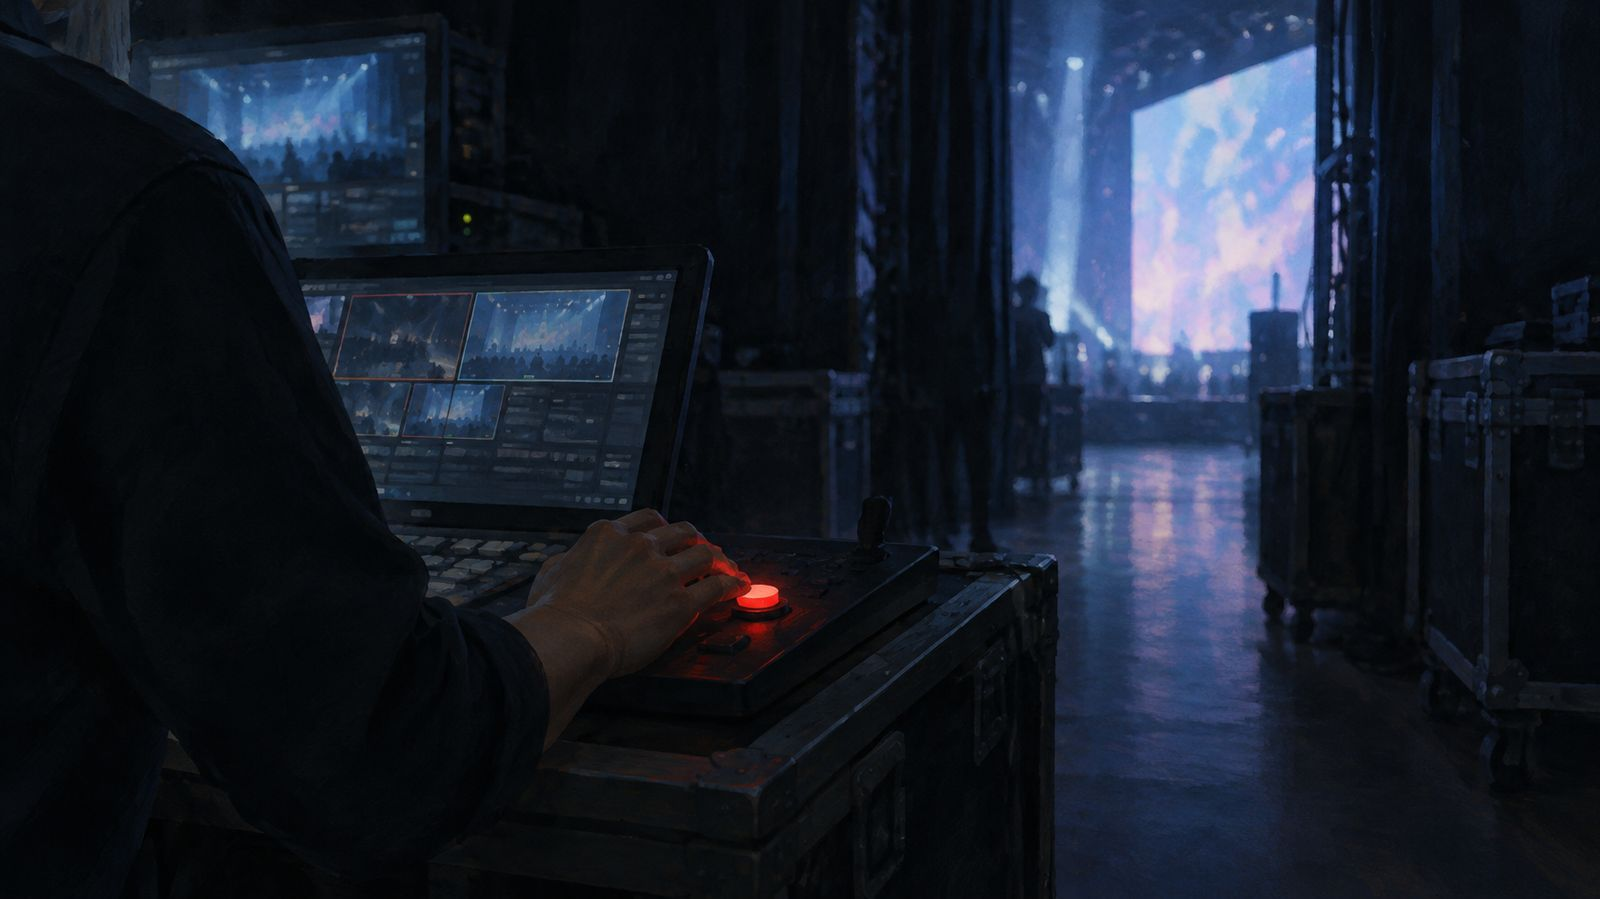
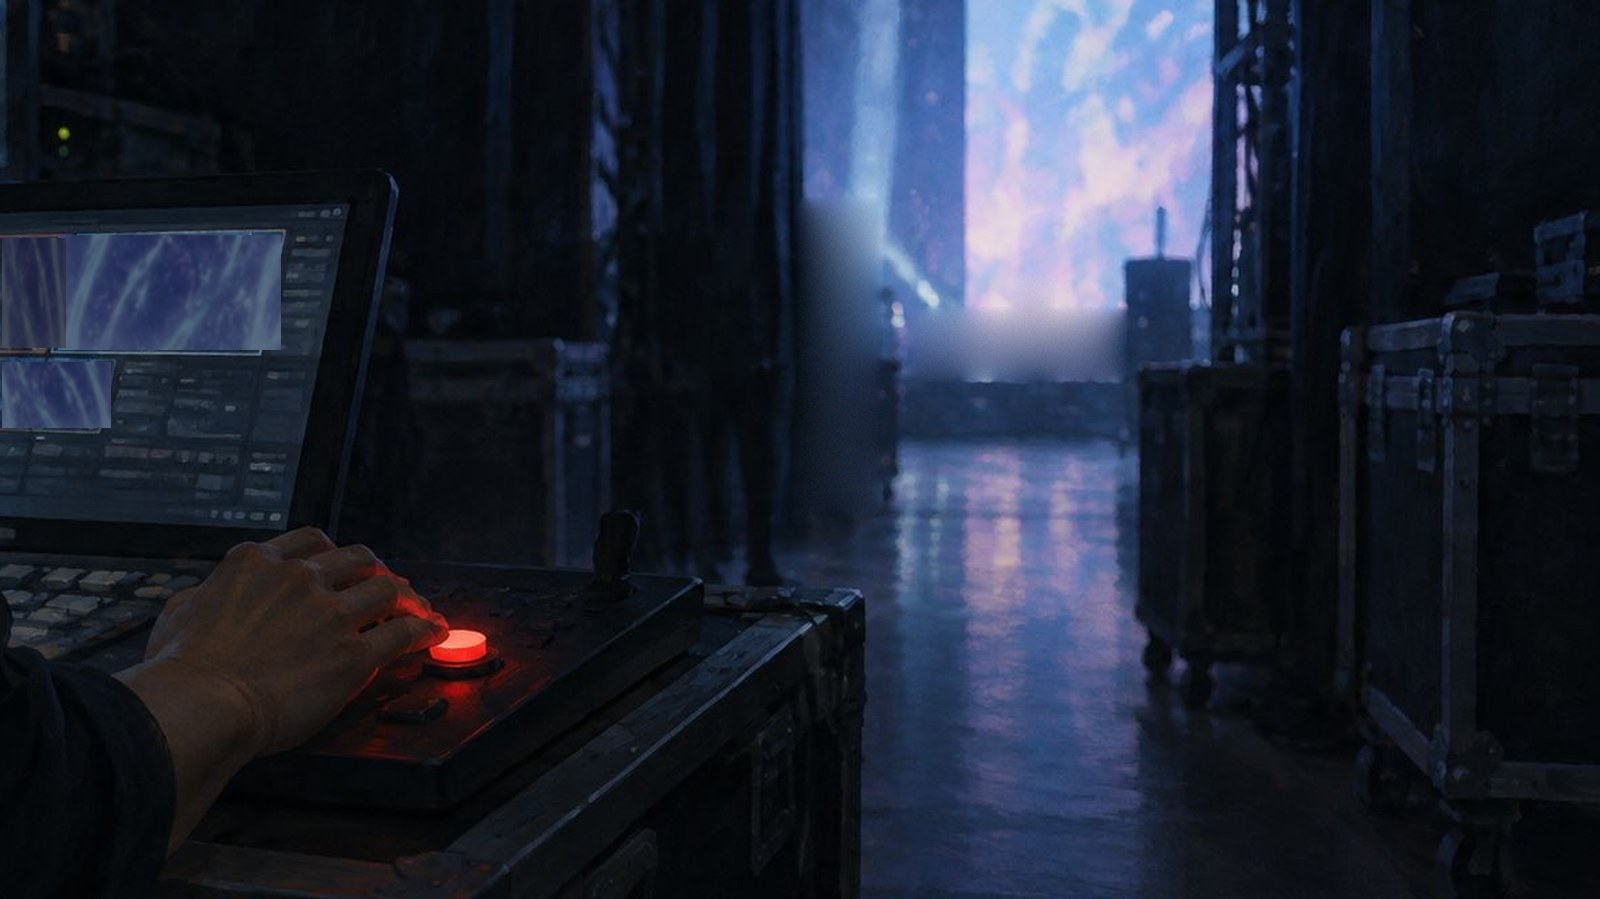
publish 08-11-14 18:40

diff --git a/journal-andon-and-the-courage-to-stop.html b/journal-andon-and-the-courage-to-stop.html
@@ -1,7 +1,7 @@
 <!DOCTYPE html>
 
 <html lang="ja"><head><meta charset="utf-8"/><meta content="width=device-width,initial-scale=1" name="viewport"/><meta content="index,follow" name="robots"/><meta content="誰でもラインを止められる工場の仕組み「アンドン」。止めることを失敗ではなく仕組みにした考え方は、映像が途切れた本番の現場でそのまま使えます。経営の知恵を、イベントの停止条件につなぐ読みもの。" name="description"/><meta content="#1b201e" name="theme-color"/><title>ひもを引く勇気。工場の「アンドン」が、イベントの本番に教えてくれること｜LOTUS VISUAL JOURNAL</title><link href="favicon.svg" rel="icon" type="image/svg+xml"/><link href="style.css" rel="stylesheet"/><link href="visual-refinement.css" rel="stylesheet"/><link href="equipment-editorial.css" rel="stylesheet"/><link href="products.css" rel="stylesheet"/><script defer="" src="site.js"></script><script defer="" src="memo-storage.js"></script><link href="journal-v2.css" rel="stylesheet"/><link href="lotus-direction.css" rel="stylesheet"/><link href="common-controls.css" rel="stylesheet"/><link href="experience.css" rel="stylesheet"/><script defer="" src="experience.js"></script><link href="gold-controls.css" rel="stylesheet"/><link href="lotus-control-system.css" rel="stylesheet"/><link rel="canonical" href="https://lotus-event-visual.github.io/journal-andon-and-the-courage-to-stop.html"><meta property="og:title" content="ひもを引く勇気。工場の「アンドン」が、イベントの本番に教えてくれること｜LOTUS VISUAL JOURNAL"><meta property="og:description" content="誰でもラインを止められる工場の仕組み「アンドン」。止めることを失敗ではなく仕組みにした考え方は、映像が途切れた本番の現場でそのまま使えます。経営の知恵を、イベントの停止条件につなぐ読みもの。"><meta property="og:url" content="https://lotus-event-visual.github.io/journal-andon-and-the-courage-to-stop.html"><meta property="og:type" content="article"><meta property="og:image" content="https://lotus-event-visual.github.io/assets/photo/th-andon-line.webp"><meta name="twitter:card" content="summary_large_image"></head><body class="page-journal-andon-and-the-courage-to-stop lotus-v2" id="top"><a class="skip" href="#main">本文へ移動</a><header class="site-header"><a aria-label="LOTUS VISUAL ホーム" class="wordmark" href="./">LOTUS<span>.</span><small>EVENT VISUAL / TECHNICAL</small></a><nav aria-label="主要ページ" class="quick-nav"><a href="services.html">事業案内</a><a href="rental.html">機材レンタル</a><a href="partners.html">映像会社様へ</a><a class="quick-contact" href="contact.html">ご相談 <span aria-hidden="true">↗</span></a></nav><button aria-controls="site-nav" aria-expanded="false" class="menu-toggle lotus-control lotus-control--compact" type="button"><span class="menu-label">メニュー</span><span aria-hidden="true">＋</span></button><nav aria-label="全ページ" id="site-nav"><div class="menu-intro"><small>EXPLORE LOTUS VISUAL</small><p>映像の現場を、<br/>ともにつくる。</p><a href="./">ホームへ →</a></div><div class="menu-links"><a href="services.html"><small>SERVICES</small><span>事業案内</span><b aria-hidden="true">↗</b></a><a href="technical.html"><small>TECHNICAL</small><span>技術提供</span><b aria-hidden="true">↗</b></a><a href="technical.html#technical-cases"><small>TECHNICAL CASES</small><span>技術提供事例</span><b aria-hidden="true">↗</b></a><a href="rental.html"><small>EQUIPMENT</small><span>映像機材レンタル</span><b aria-hidden="true">↗</b></a><a href="products.html"><small>EQUIPMENT GUIDE</small><span>機材ガイド</span><b aria-hidden="true">↗</b></a><a href="scenes.html"><small>APPLICATIONS</small><span>用途から考える</span><b aria-hidden="true">↗</b></a><a href="contact.html"><small>PROJECT FLOW</small><span>ご依頼の流れ</span><b aria-hidden="true">↗</b></a><a href="partners.html"><small>FOR PARTNERS</small><span>映像会社様へ</span><b aria-hidden="true">↗</b></a><a href="about.html"><small>ABOUT</small><span>LOTUSについて</span><b aria-hidden="true">↗</b></a><a href="contact.html"><small>CONTACT</small><span>ご相談</span><b aria-hidden="true">↗</b></a><a aria-label="PRO ADVISOR：機材マニュアル" href="https://lotus-equipment-guide.s1823-lotus.chatgpt.site/"><small>PRO ADVISOR</small><span>機材マニュアル</span><b aria-hidden="true">↗</b></a></div></nav></header><main id="main"><article class="jv2 shell">
-<figure class="jv2-hero"><img src="assets/journal/andon-hero.jpg" alt="暗い舞台袖で、映像オペレーターの手元の停止ボタンだけが光っている絵" loading="eager"></figure>
+<figure class="jv2-hero"><img src="assets/journal/andon-hero.jpg" alt="暗い舞台袖で、停止ボタンに置いた手元だけが赤く光っている" loading="eager"></figure>
 <p class="jv2-kicker">LOTUS VISUAL JOURNAL / 経営の知恵と現場 #01</p>
 <h1>ひもを引く勇気。<br>工場の「アンドン」が、<br>イベントの本番に教えてくれること</h1>
 <p class="jv2-lead">世界でいちばん有名な工場には、作業員の頭の上に一本のひもが下がっています。それを引くと、ラインが止まる。新人でも、入社初日でも、引いていい。<br>「止める」をこれほど堂々と仕組みにした会社は、なぜ強いのか。そしてその考え方は、映像が途切れた本番の舞台袖で、何を教えてくれるのか。</p>

diff --git a/index.html b/index.html
@@ -28,7 +28,7 @@
 <a href="journal-campfire-and-the-screen.html" data-thumb="campfire-and-the-screen"><img class="fr-thumb" src="assets/journal/campfire-hero.jpg" alt="夜の野外の焚き火と、遠くで光る野外スクリーンの絵" loading="lazy" width="320" height="200"><small>#03 ・ 7分</small><strong>人はなぜ、火と画面から目を離せないのか</strong><span>焚き火の実験と、会場のスクリーン</span></a>
 </div>
 <div class="fr-shelf-row"><h3>経営の知恵と現場</h3>
-<a href="journal-andon-and-the-courage-to-stop.html" data-thumb="andon-and-the-courage-to-stop"><img class="fr-thumb" src="assets/journal/andon-hero.jpg" alt="暗い舞台袖で、映像オペレーターの手元の停止ボタンだけが光っている絵" loading="lazy" width="320" height="200"><small>#01 ・ 8分</small><strong>新人でも、ラインを止めていい。トヨタはなぜ、そう決めたのか</strong><span>アンドンと、舞台袖の赤いボタン</span></a>
+<a href="journal-andon-and-the-courage-to-stop.html" data-thumb="andon-and-the-courage-to-stop"><img class="fr-thumb" src="assets/journal/andon-hero.jpg" alt="暗い舞台袖で、停止ボタンに置いた手元だけが赤く光っている" loading="lazy" width="320" height="200"><small>#01 ・ 8分</small><strong>新人でも、ラインを止めていい。トヨタはなぜ、そう決めたのか</strong><span>アンドンと、舞台袖の赤いボタン</span></a>
 <a href="journal-the-checklist.html" data-thumb="the-checklist"><img class="fr-thumb" src="assets/photo/j-checklist.webp" alt="本番前のオペ卓に置かれたチェックリストとインカム" loading="lazy" width="320" height="200"><small>#07 ・ 8分</small><strong>最高のパイロット 2 人が、同じ一手順を同時に忘れた日</strong><span>1935 年、チェックリストが生まれた理由</span></a>
 <a href="journal-the-manual-that-is-never-finished.html" data-thumb="the-manual-that-is-never-finished"><img class="fr-thumb" src="assets/photo/j-manual.webp" alt="付箋の付いた機材マニュアルに書き足すスタッフの手" loading="lazy" width="320" height="200"><small>#08 ・ 8分</small><strong>2,000 ページのマニュアルが、なぜ毎月書き換わるのか</strong><span>無印良品の「完成しない」仕組み</span></a>
 </div>
